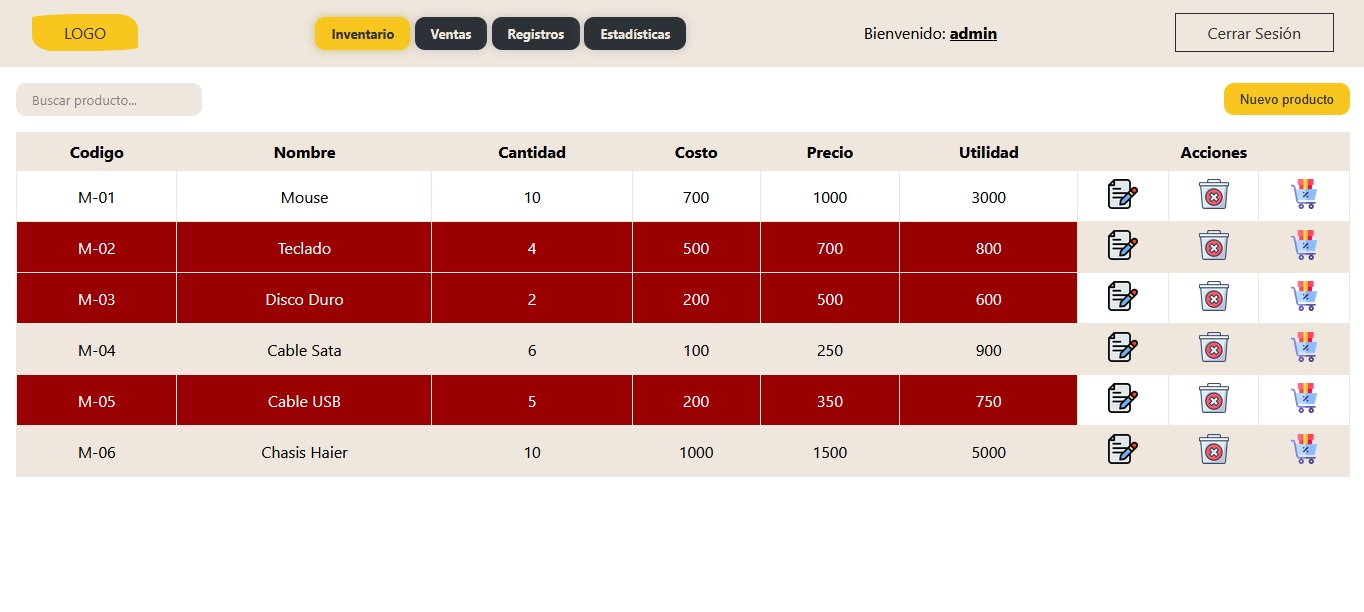
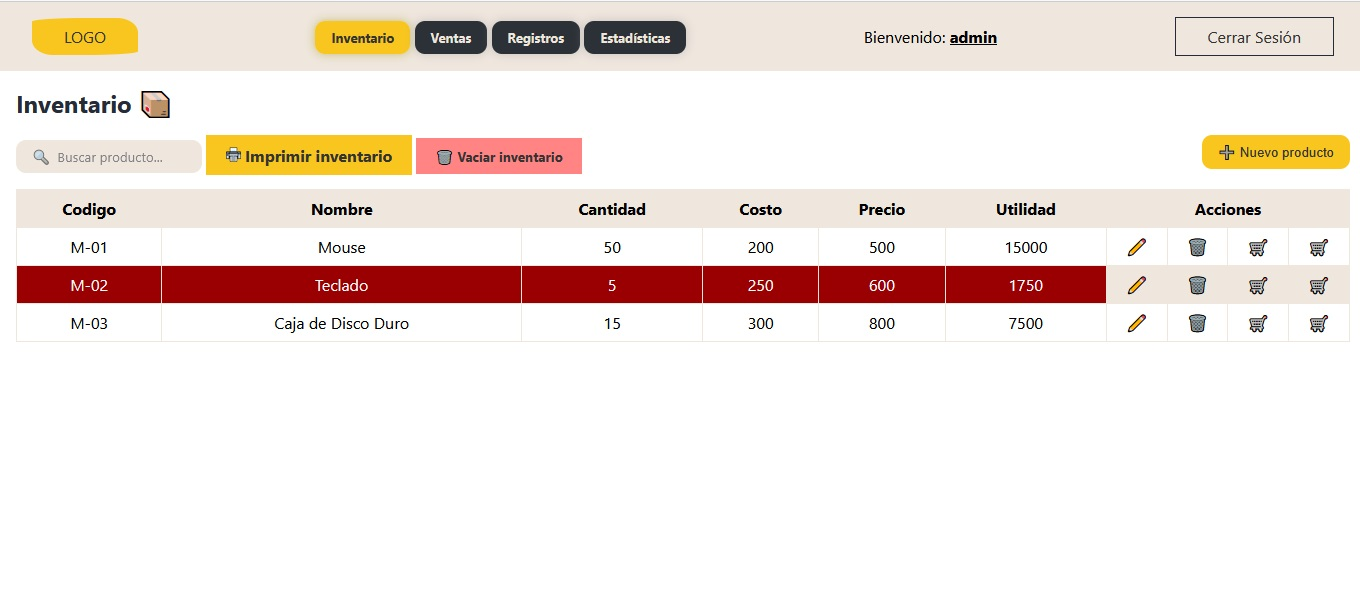
arreglada descarga de cv

diff --git a/index.html b/index.html
@@ -43,7 +43,7 @@
                         <i class="fa-solid fa-envelope"></i> Disponible para trabajar
                     </button>
                 </a>
-                <a href="cv/acieloliveraCV.pdf" download>
+                <a href="csv/acieloliveraCV.pdf" download>
                     <button class="dwl">
                         <i class="fa-solid fa-download"></i> Descargar CV
                     </button>

diff --git a/css/style.css b/css/style.css
@@ -171,6 +171,9 @@ body {
   border-radius: var(--radius);
   padding: 1rem;
   transition: var(--transition);
+  display: flex;
+  flex-direction: column;
+  justify-content: space-between;
 }
 
 .card:hover {
